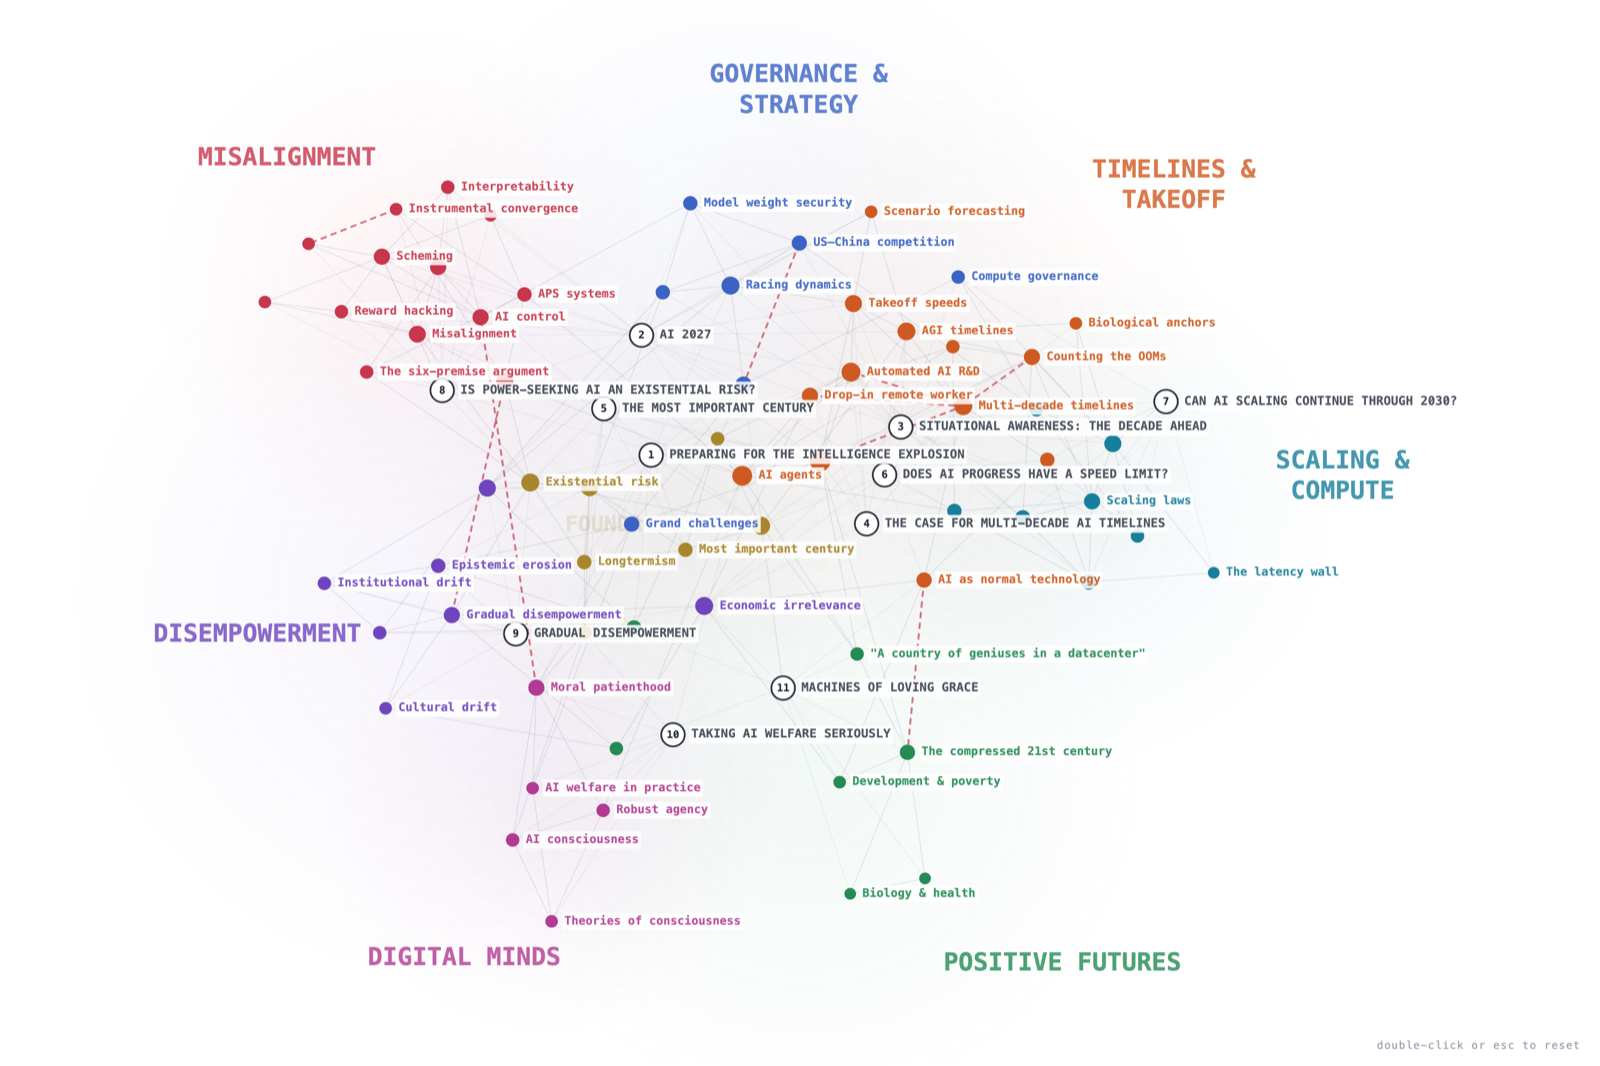
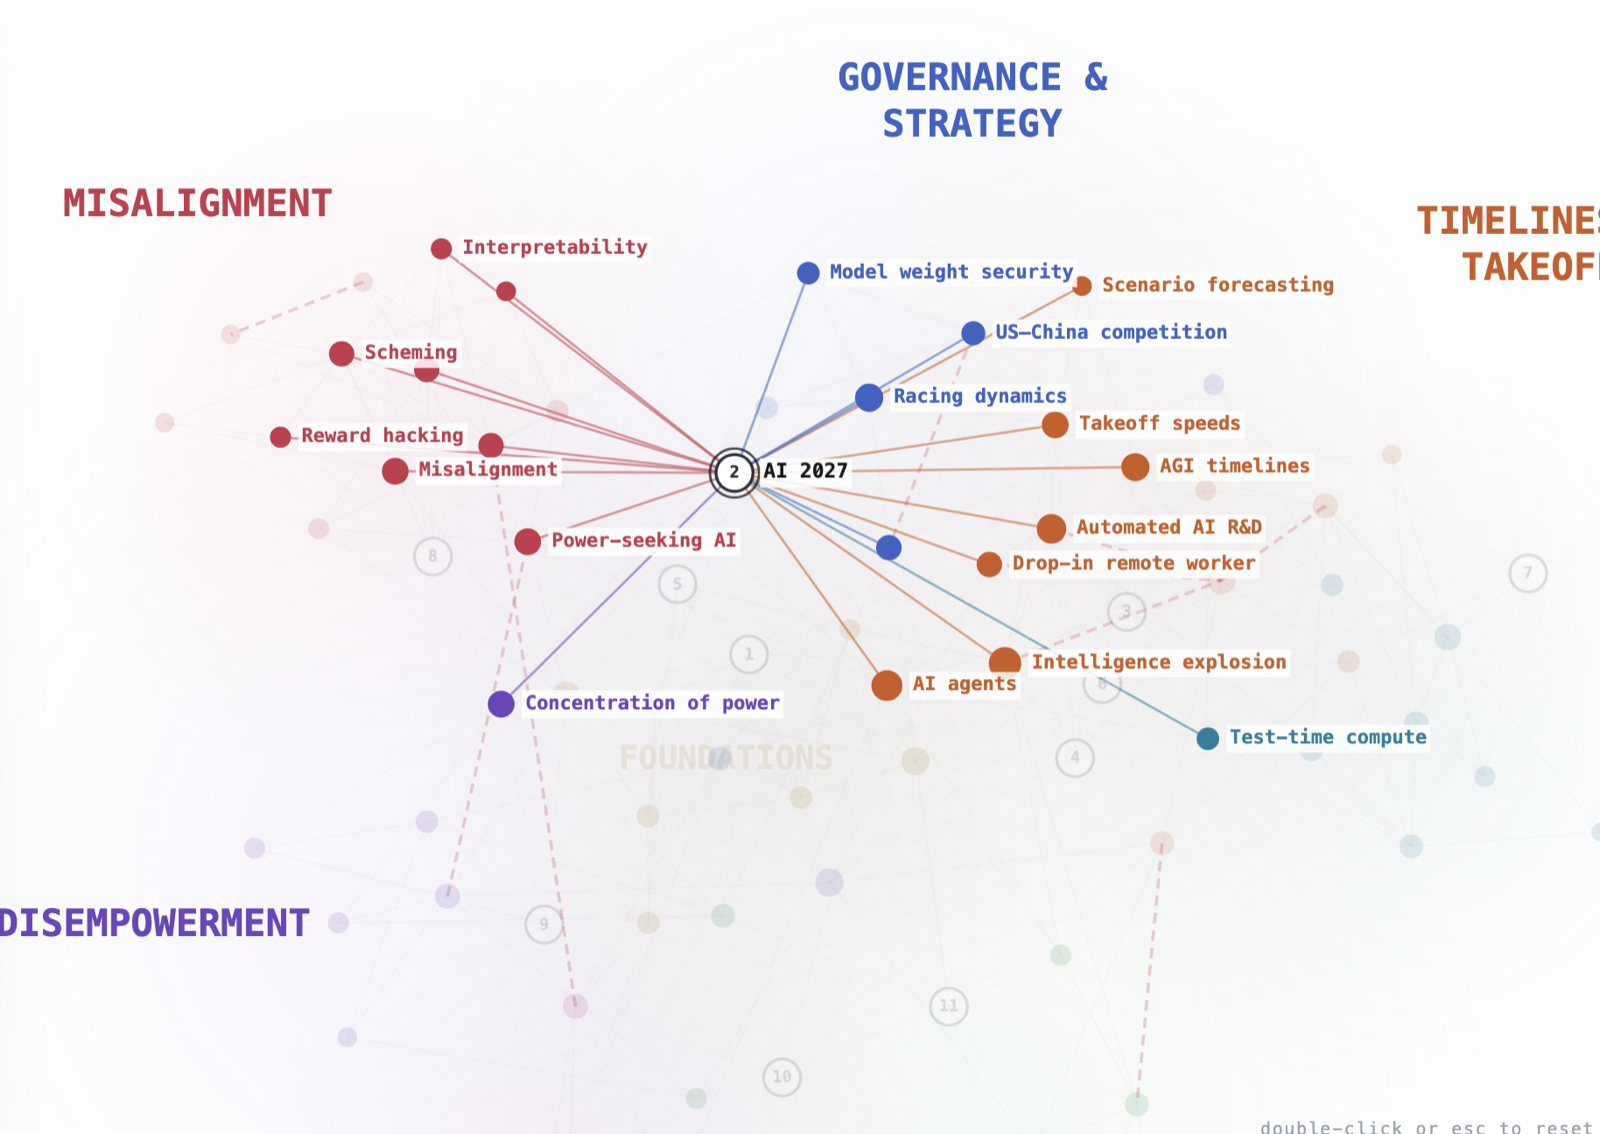
ai risk web: matrix theme-row tint + fix governance pill ellipsis; update project card copy + thumbnail

diff --git a/public/ai-risk-web/index.html b/public/ai-risk-web/index.html
@@ -157,13 +157,16 @@
   #mtable td{border-bottom:1px solid #ECEFF3;padding:5px 4px;text-align:center}
   #mtable td.cname{position:sticky;left:0;z-index:2;background:#FFFFFF;text-align:left;padding:5px 12px;
     font-size:13px;white-space:nowrap;cursor:pointer;max-width:250px;overflow:hidden;text-overflow:ellipsis}
+  /* faint theme wash across every row of a theme's section (--tint set per tbody) */
+  #mtable tbody td{background:var(--tint,#fff)}
+  #mtable tbody td.cname{background:var(--tint,#fff)}
   #mtable tr:hover td{background:#F0F3F8}
   #mtable tr:hover td.cname{background:#EAEEF5}
   #mtable tr.sel td{background:rgba(59,99,196,.07)}
   #mtable tr.sel td.cname{background:#E4EAF6}
   .throw td{background:#FFFFFF;font-family:var(--f-mono);font-size:9.5px;letter-spacing:.14em;
     text-align:left !important;padding:12px 12px 8px !important;border-bottom:1px solid var(--line) !important}
-  .throw td.cname{max-width:none;overflow:visible;text-overflow:clip}
+  #mtable .throw td.cname{max-width:none;overflow:visible;text-overflow:clip}
   .throw .mth{display:inline-block;border:1px solid;border-radius:99px;padding:4px 11px;letter-spacing:.14em}
   .throw td.cname:hover .mth{filter:brightness(0.94)}
   .cdot{width:11px;height:11px;border-radius:50%;display:inline-block;cursor:pointer;vertical-align:middle}
@@ -770,6 +773,8 @@ function goTo(t,instant){ if(instant||reduceMotion){ cam={...t}; camT=null; } el
 function nodeVisible(n){ if(n.type==='s') return n.concepts.some(cid=>byId[cid]&&themeOn[byId[cid].t]); return themeOn[n.t]; }
 function hexA(hex,a){ const r=parseInt(hex.slice(1,3),16),g=parseInt(hex.slice(3,5),16),b=parseInt(hex.slice(5,7),16);
   return `rgba(${r},${g},${b},${a})`; }
+function tintSolid(hex,a){ const r=parseInt(hex.slice(1,3),16),g=parseInt(hex.slice(3,5),16),b=parseInt(hex.slice(5,7),16),
+  m=x=>Math.round(255*(1-a)+x*a); return `rgb(${m(r)},${m(g)},${m(b)})`; }
 function nodeColor(n){ return n.type==='s' ? '#232833' : THEMES[n.t].color; }
 function nodeR(n){ return (n.type==='s' ? 11 : 4.2+Math.min(n.deg,14)*0.42) * Math.pow(cam.z,0.55); }
 
@@ -1280,7 +1285,7 @@ function buildMatrix(){
   });
   html+='</tr></thead>';
   Object.entries(THEMES).forEach(([k,t])=>{
-    html+=`<tbody data-t="${k}"><tr class="throw"><td class="cname" data-theme-go="${k}" style="cursor:pointer"><span class="mth" style="${tintStyle(t.color)}">${t.name.toUpperCase()}</span></td><td colspan="${SOURCES.length}" style="background:${hexA(t.color,0.045)}"></td></tr>`;
+    html+=`<tbody data-t="${k}" style="--tint:${tintSolid(t.color,0.05)}"><tr class="throw"><td class="cname" data-theme-go="${k}" style="cursor:pointer"><span class="mth" style="${tintStyle(t.color)}">${t.name.toUpperCase()}</span></td><td colspan="${SOURCES.length}"></td></tr>`;
     CONCEPTS.filter(c=>c.t===k).forEach(c=>{
       html+=`<tr data-cid="${c.id}"><td class="cname" data-go="${c.id}" style="color:${shade(t.color,0.62)}">${esc(c.name)}</td>`;
       SOURCES.forEach(s=>{

diff --git a/src/pages/Design.tsx b/src/pages/Design.tsx
@@ -29,7 +29,7 @@ const projects: Project[] = [
     title: 'ai risk web',
     image: '/design/ai-risk-web.png',
     href: '/ai-risk-web/',
-    body: "the concepts from 80,000 hours' 11 essential resources on ai risk. explore a walk through each source's key concepts. dashed red lines denote disagreements between readings.\n\nnote: this is a personal project with no official association with 80,000 hours.",
+    body: "i built this site to visualize the themes and shared concepts from the resources 80,000 hours recommends to get up to speed on the most influential ideas shaping the agi risk debate.\n\nnote: this is a personal project with no official association with 80,000 hours.",
     links: [
       { label: 'ai risk web', href: '/ai-risk-web/' },
       { label: "80k's reading list", href: 'https://80000hours.org/articles/11-essential-resources-ai-risk/' },
